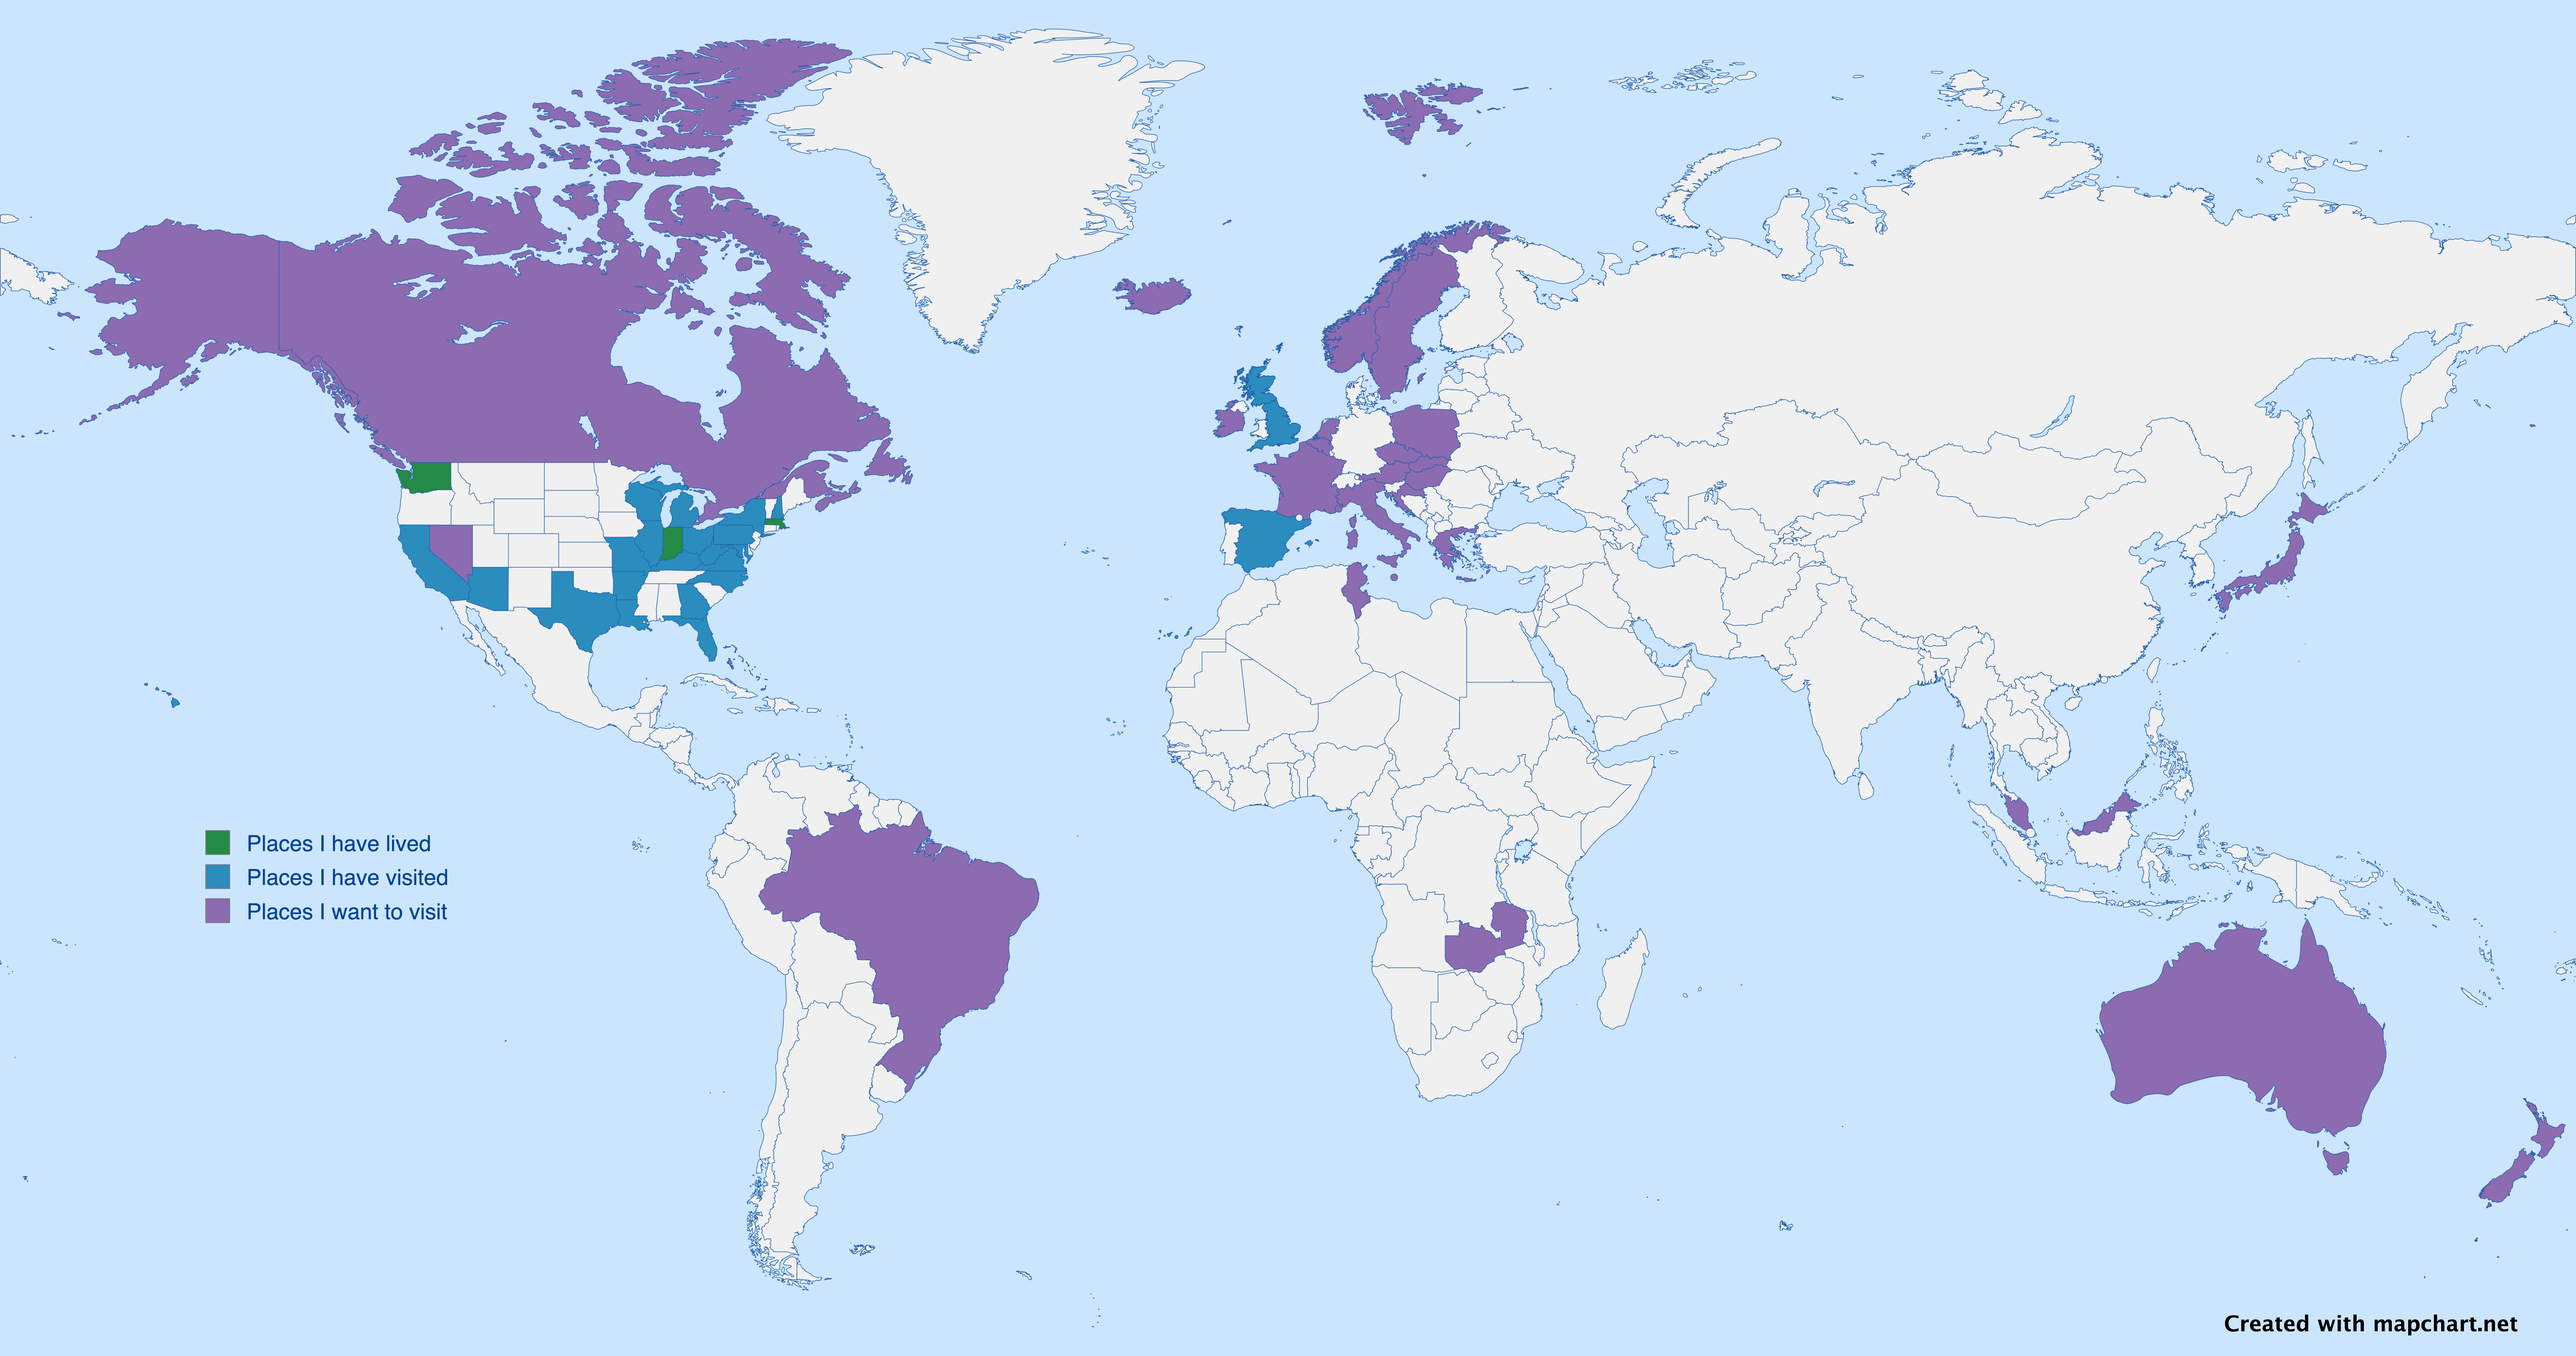
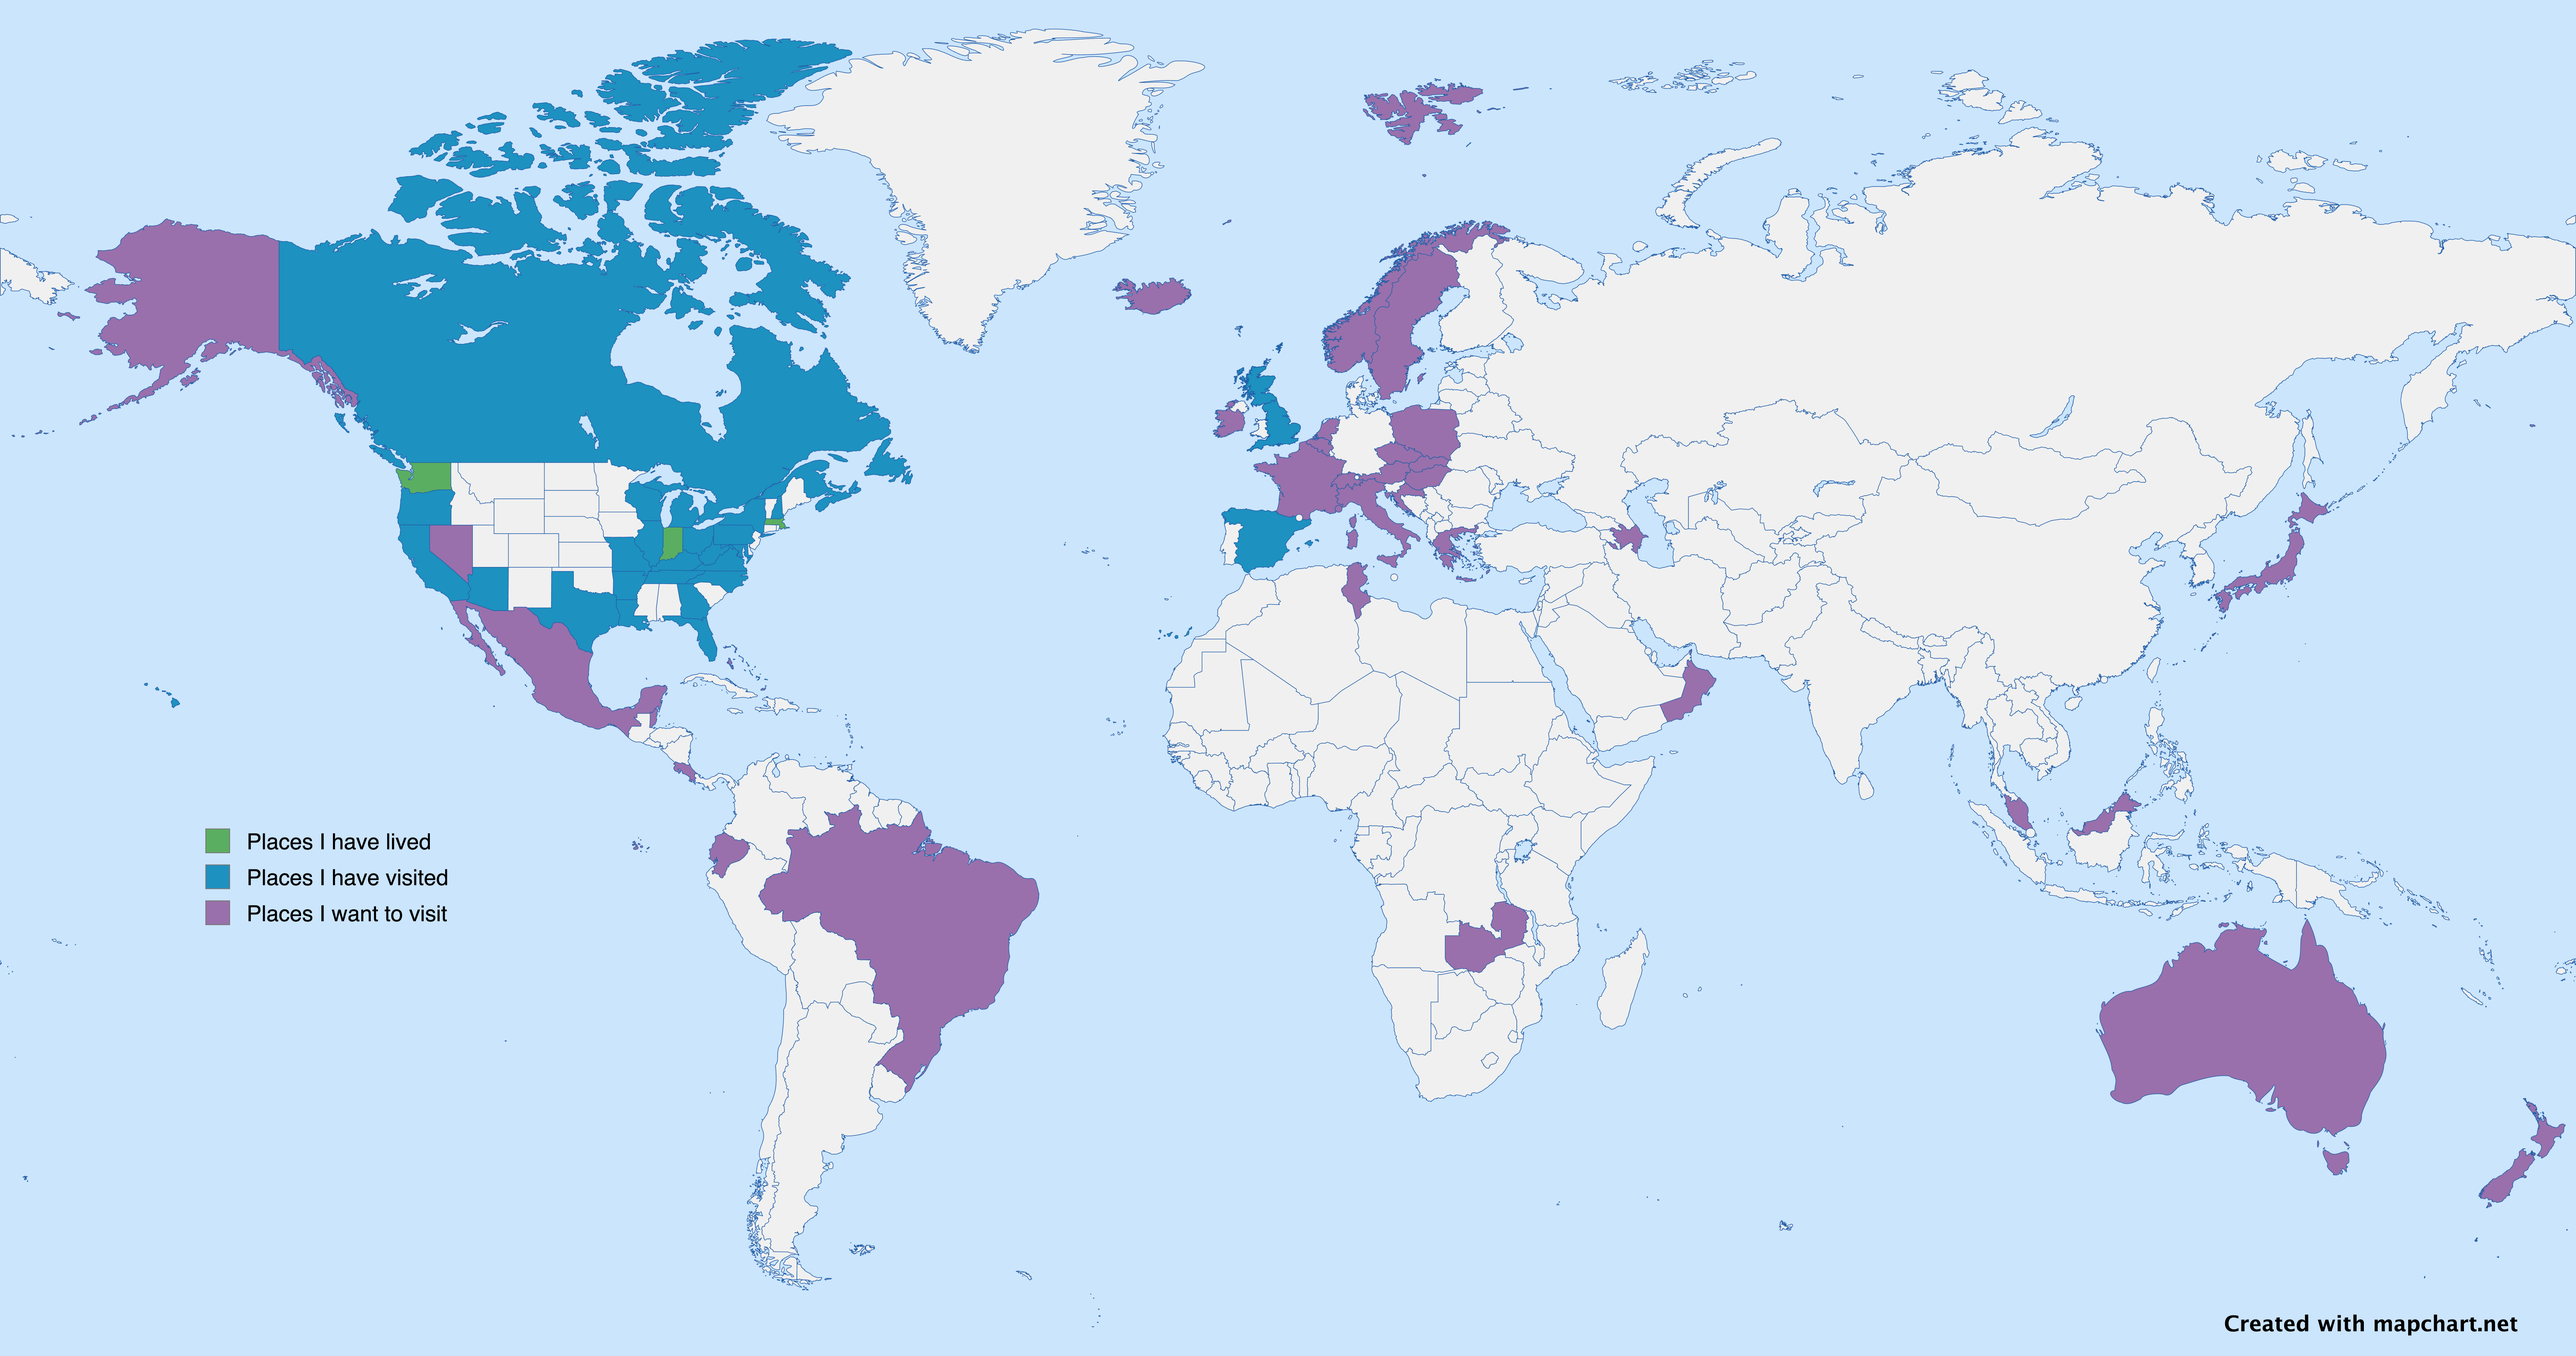
0.5.2

diff --git a/travels/travels.html b/travels/travels.html
@@ -13,7 +13,14 @@
             <script src="../components/navbar/navbar.js"></script>
         </div>
         <div class="pageTitle">My Travels</div>
+        <p>The image below shows places I have either: 1) lived, 2) visited, or 3) wish to visit during my lifetime.</p>
         <img src="../images/MapChart_Map.png" alt="A map of my travels" width="1292", height="680" class="imageRow">
        <div class="subtext">Places I wish to travel which are not on this map are: the Maldives, Antarctica, and the Great Barrier Reef</div>
+       <h2>Spain</h2>
+       <p>I traveled to Spain in March 2023 while on spring break my senior year of college. While in Spain I visited Malaga, Cordoba, Granada, and Barcelona.</p>
+       <h2>Hawaii</h2>
+       <p>I have visited Hawaii twice, once in 2019 and another in 2024.</p>
+       <h2>United Kingdom</h2>
+       <p>I went to the United Kingdom in 2019 as part of a school sponsored trip.</p>
     </body>
 </html>

diff --git a/index.html b/index.html
@@ -18,7 +18,7 @@
         </div>
         <p class="disclaimer">
             Hi! I'm Jonathon Vasilak. I currently live and work in Seattle, WA. I go by both Jonathon or Jon. 
-            I work as a software engineer at Amazon, in the AWS IoT department. Prior to working for Amazon, I attended the University of Notre
+            I work as a software engineer for Amazon Enterprise Engineering. Prior to working for Amazon, I attended the University of Notre
             Dame, where I graduated with a degree in Computer Science. Even before that, I grew up in Griffith, Indiana where I graduated 
             from Griffith High School.
              

diff --git a/changelog.md b/changelog.md
@@ -14,6 +14,12 @@ and this project adheres to [Semantic Versioning](http://semver.org/).
 ### Removed
 -
 
+## [0.5.2] - 2025-09-08
+
+### Changed
+- Description of myself on the main page
+- Updated map image on the travels page and added some descriptions of a few places I've been
+
 ## [0.5.1] - 2025-03-31
 
 ### Changed
